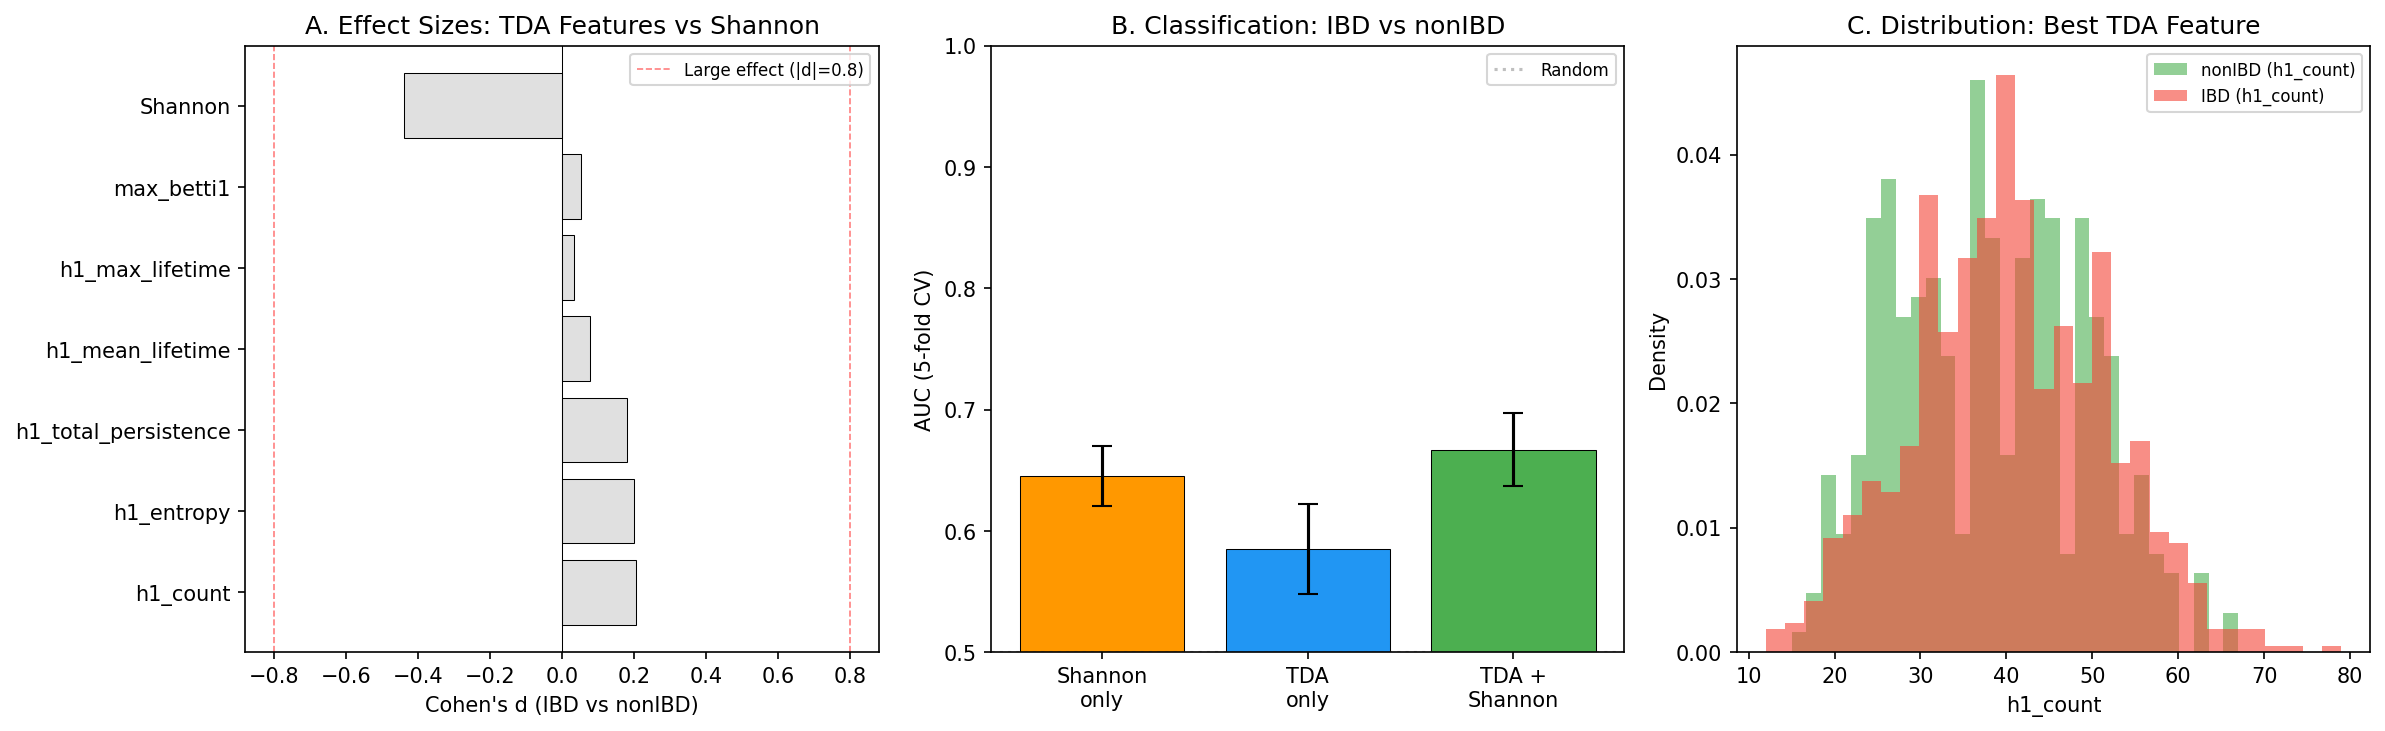
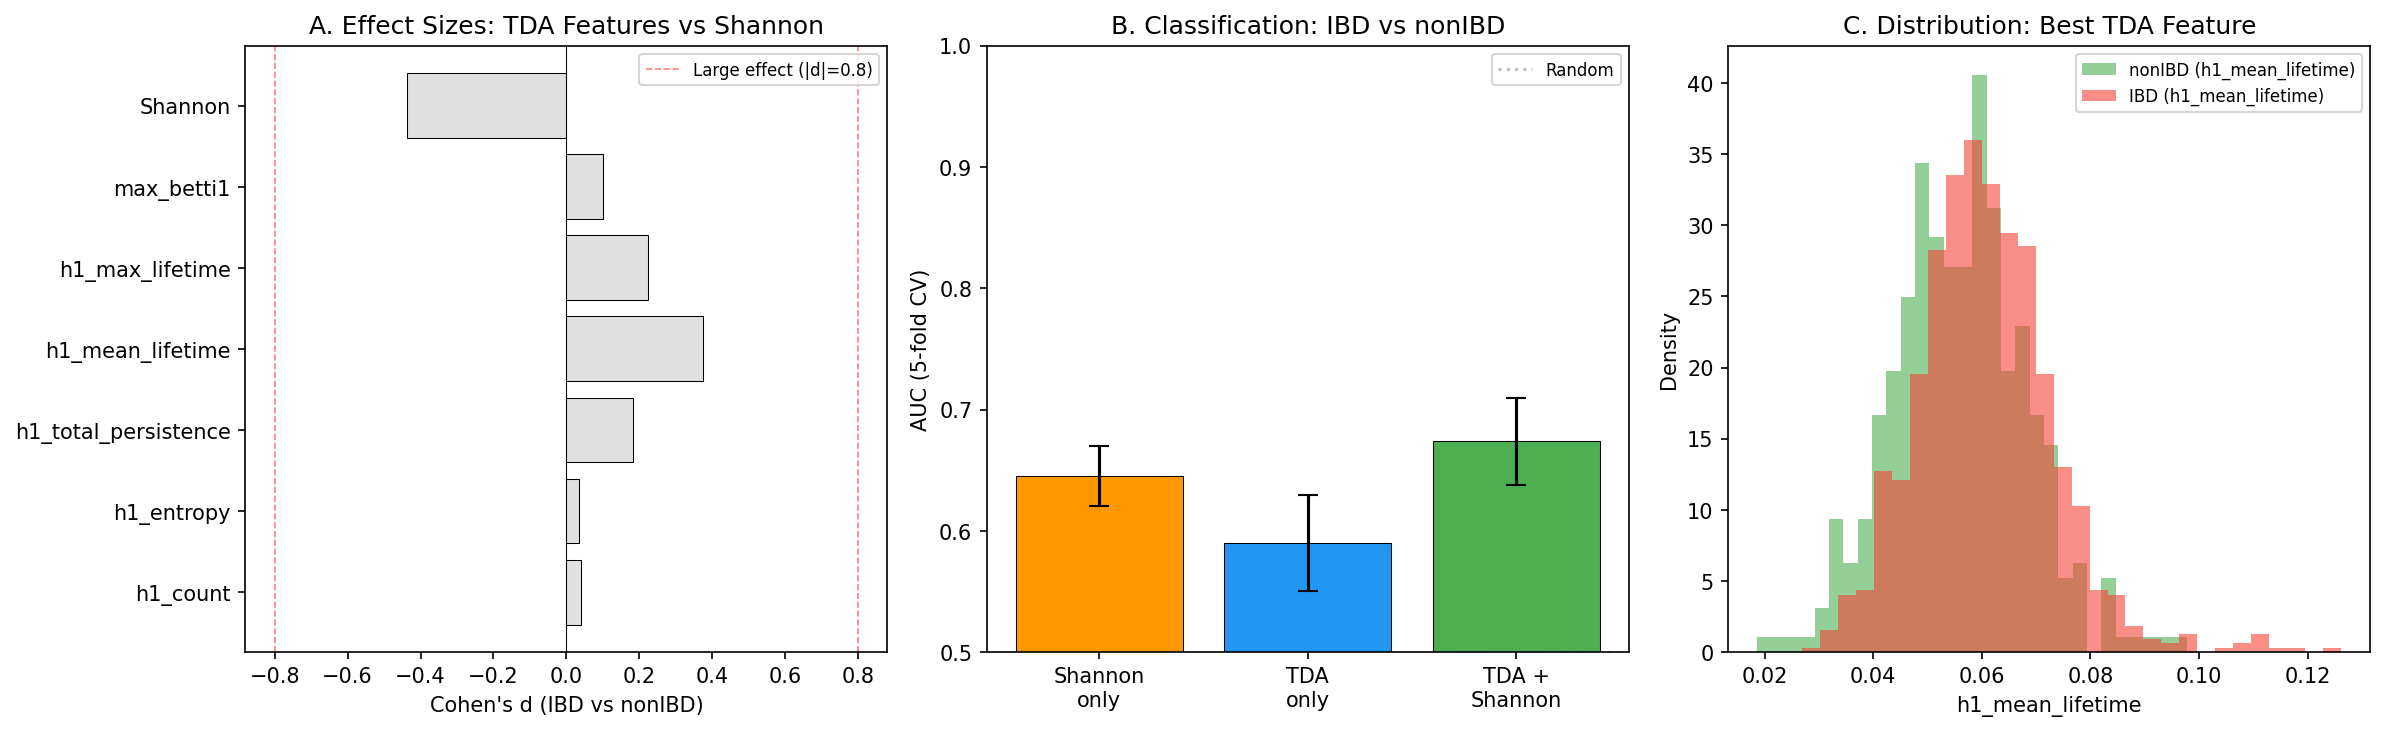
Fix validation: correct taxa selection (CLR not raw), fix AUC data leakage
- select_global_taxa now receives CLR-transformed data matching the
  original bootstrap pipeline (37/80 taxa were wrong before)
- Replace pre-fitted StandardScaler with sklearn Pipeline to avoid
  leaking test-fold statistics into scaling
- Add ripser fallback in homology.py (giotto-tda confirmed identical)
- Updated results reflect corrected per-sample Cohen's d and AUC values

https://claude.ai/code/session_011jATDzq3w814teyPWnQRv1

diff --git a/simulations/validate_third_dataset.py b/simulations/validate_third_dataset.py
@@ -30,6 +30,7 @@ from scipy.stats import mannwhitneyu
 from sklearn.linear_model import LogisticRegression
 from sklearn.preprocessing import StandardScaler
 from sklearn.model_selection import StratifiedKFold, cross_val_score
+from sklearn.pipeline import Pipeline
 
 ROOT = os.path.abspath(os.path.join(os.path.dirname(__file__), ".."))
 sys.path.insert(0, ROOT)
@@ -96,10 +97,9 @@ def main():
     # ── Preprocess for TDA ───────────────────────────────────────
     print("\n3. Preprocessing for TDA...")
     filtered = filter_low_abundance(abundance, min_prevalence=0.05, min_reads=0)
-    top_taxa = select_global_taxa(filtered, n=N_GLOBAL_TAXA)
-    filtered = filtered[top_taxa]
     clr = clr_transform(filtered)
-    clr_matrix = clr.values.astype(np.float64)
+    top_taxa = select_global_taxa(clr, n=N_GLOBAL_TAXA)
+    clr_matrix = clr[top_taxa].values.astype(np.float64)
     print(f"   CLR matrix: {clr_matrix.shape}")
 
     # ── Per-sample topology ──────────────────────────────────────
@@ -153,29 +153,25 @@ def main():
     print("\n6. AUC comparison (5-fold cross-validation):")
 
     cv = StratifiedKFold(n_splits=5, shuffle=True, random_state=SEED)
-    scaler = StandardScaler()
+    pipe = Pipeline([
+        ("scaler", StandardScaler()),
+        ("clf", LogisticRegression(random_state=SEED, max_iter=1000)),
+    ])
 
     # Shannon only
-    X_shannon = scaler.fit_transform(shannon.reshape(-1, 1))
     auc_shannon = cross_val_score(
-        LogisticRegression(random_state=SEED, max_iter=1000),
-        X_shannon, labels, cv=cv, scoring="roc_auc"
+        pipe, shannon.reshape(-1, 1), labels, cv=cv, scoring="roc_auc"
     )
 
     # TDA only
-    X_tda = scaler.fit_transform(topo_features)
     auc_tda = cross_val_score(
-        LogisticRegression(random_state=SEED, max_iter=1000),
-        X_tda, labels, cv=cv, scoring="roc_auc"
+        pipe, topo_features, labels, cv=cv, scoring="roc_auc"
     )
 
     # Combined
-    X_combined = scaler.fit_transform(
-        np.column_stack([topo_features, shannon.reshape(-1, 1)])
-    )
+    X_combined = np.column_stack([topo_features, shannon.reshape(-1, 1)])
     auc_combined = cross_val_score(
-        LogisticRegression(random_state=SEED, max_iter=1000),
-        X_combined, labels, cv=cv, scoring="roc_auc"
+        pipe, X_combined, labels, cv=cv, scoring="roc_auc"
     )
 
     print(f"   Shannon only:   AUC = {auc_shannon.mean():.4f} ± {auc_shannon.std():.4f}")
